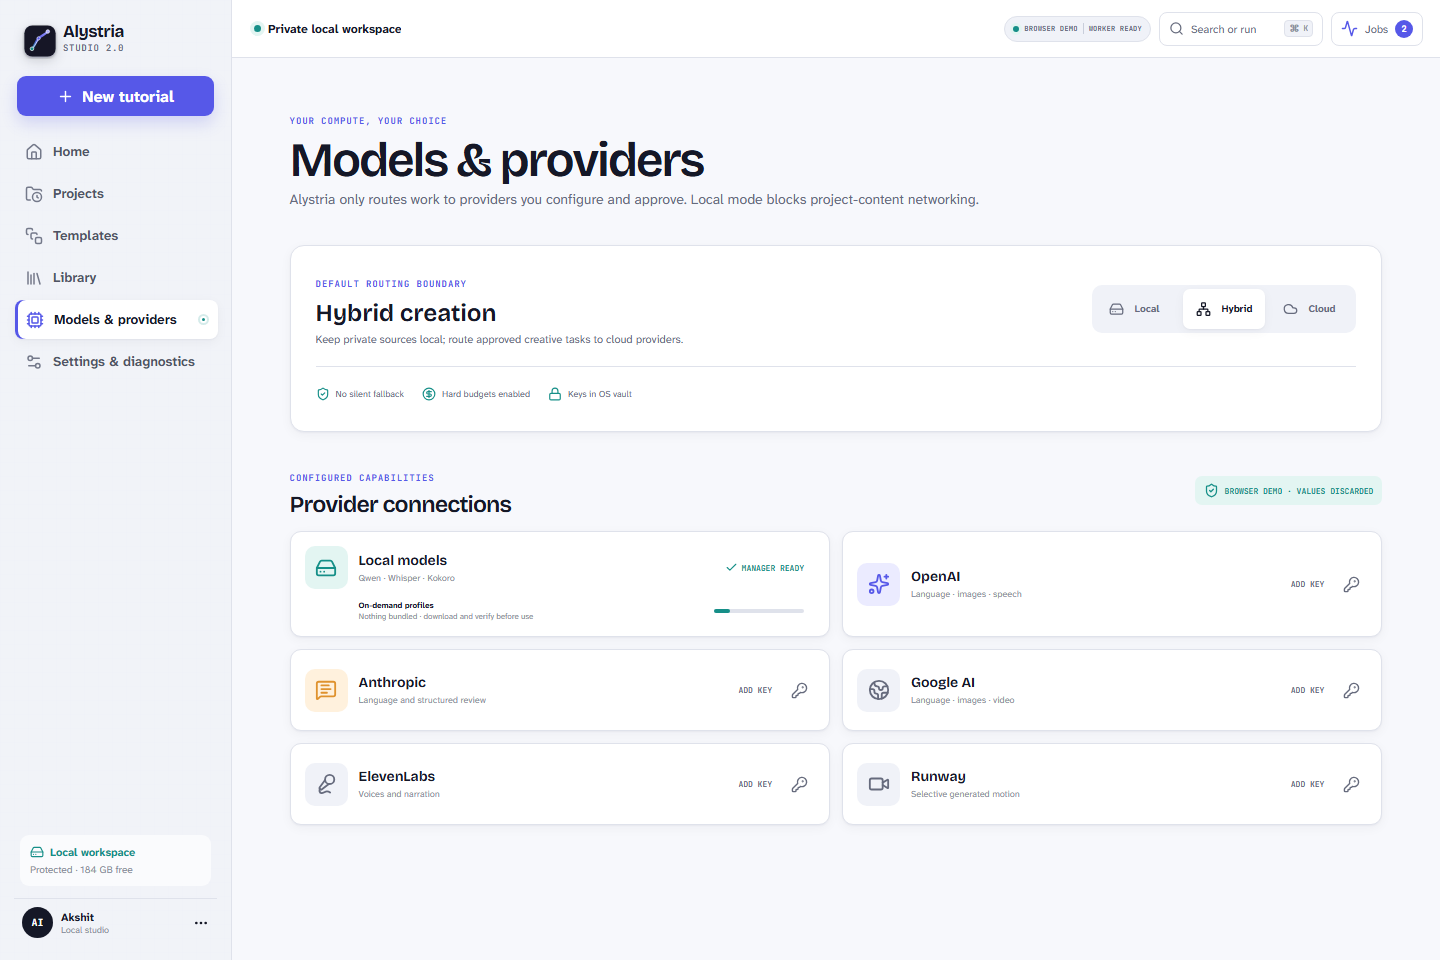
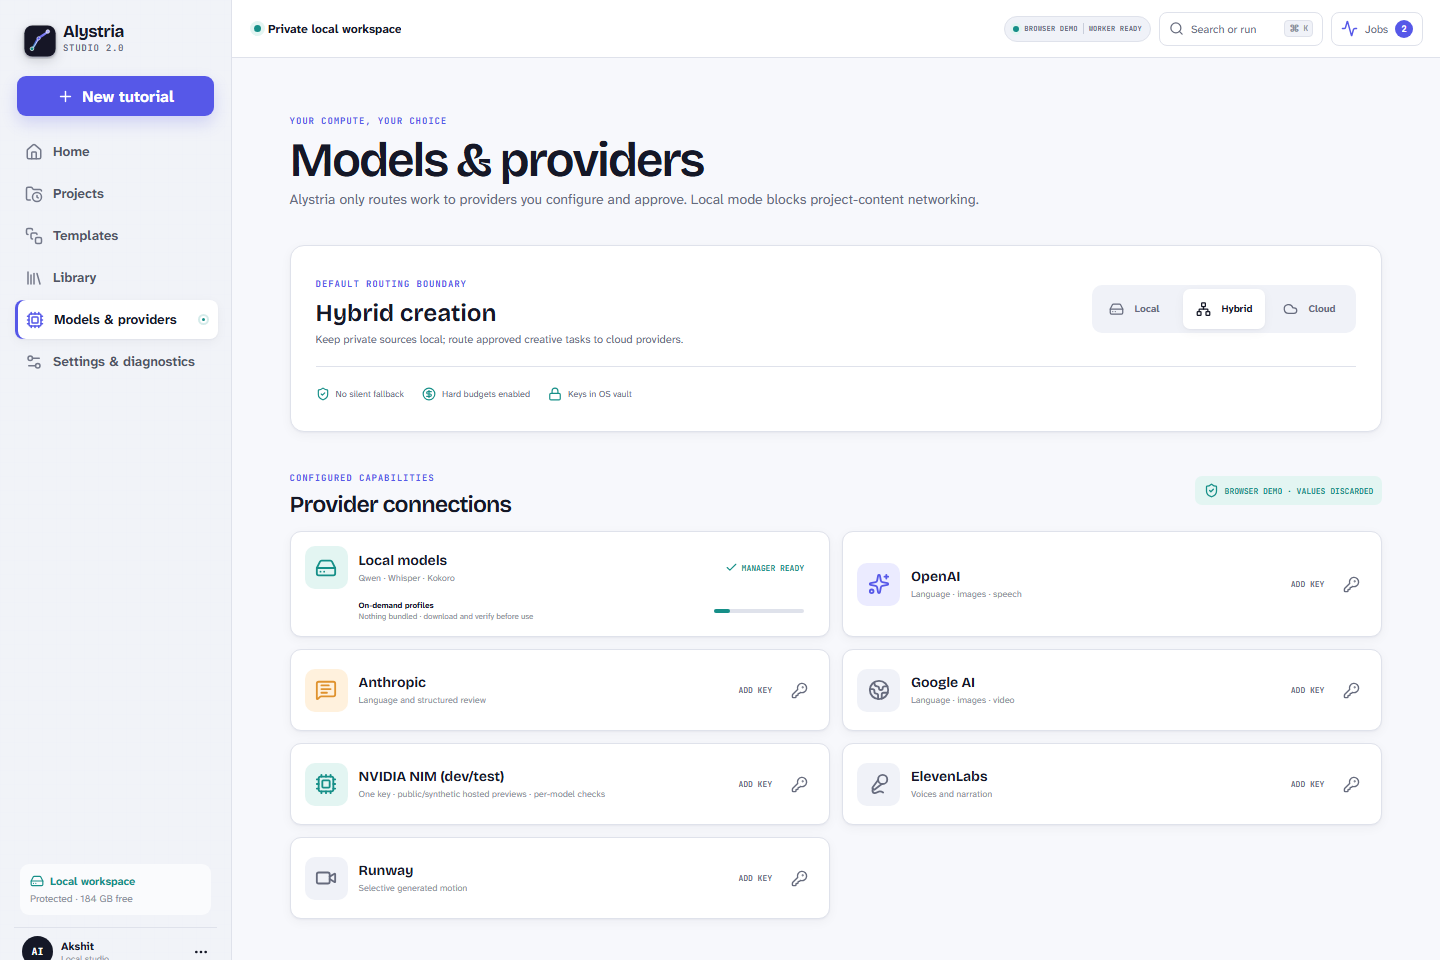
chore(checkpoint): finalize NVIDIA NIM verification

diff --git a/services/pipeline/tests/unit/test_providers.py b/services/pipeline/tests/unit/test_providers.py
@@ -467,7 +467,13 @@ def test_hard_budget_fails_closed_when_price_is_unbounded() -> None:
 def test_versioned_catalog_covers_every_launch_modality_and_is_conservative() -> None:
     catalog = default_catalog()
     capabilities = set().union(*(entry.capabilities for entry in catalog.entries.values()))
-    assert set(Capability) <= capabilities
+    # Reranking remains an implemented contract, but its only current NIM
+    # route is dormant until NVIDIA confirms a hosted model for this account.
+    # A conservative catalog must not advertise a capability merely because a
+    # request type exists in the provider-neutral contract.
+    dormant = {Capability.RERANKING}
+    assert set(Capability) - dormant <= capabilities
+    assert Capability.RERANKING not in catalog.get("nvidia-nim").capabilities
     assert catalog.get("openai").catalog_version == catalog.version
     assert catalog.get("openai").data_policy.boundary is DataBoundary.CLOUD
     assert catalog.get("openai").data_policy.retention is RetentionMode.CONFIGURABLE

diff --git a/services/pipeline/src/alystria/providers/nvidia_nim.py b/services/pipeline/src/alystria/providers/nvidia_nim.py
@@ -2,9 +2,9 @@
 
 The hosted catalog is a development and testing service, not a production
 entitlement. Alystria therefore uses one keyring credential, fixed NVIDIA
-hosts, exact visual endpoint allowlists, unbounded pricing, and no fallback.
-Model access and current per-model rate limits still have to be confirmed in
-build.nvidia.com when a model is selected.
+hosts, exact visual endpoint allowlists, zero-dollar preview budgeting, and no
+fallback. Model access and current per-model rate limits still have to be
+confirmed in build.nvidia.com when a model is selected.
 """
 
 from __future__ import annotations

diff --git a/IMPLEMENTATION_STATUS.md b/IMPLEMENTATION_STATUS.md
@@ -1,6 +1,7 @@
 # Alystria Studio 2.0 implementation ledger
 
-Status snapshot: **2026-08-28**, branch `feat/alystria-studio-v2`.
+Status snapshot: **2026-08-28**, branch `feat/alystria-studio-v2` (resumed after
+the local checkpoint pause).
 
 This is the durable source of truth for the 2.0 worktree. A checked item means
 the implementation exists and its relevant local verification passed. It does
@@ -96,8 +97,9 @@ or release distribution have been approved or verified.
 ### Providers, local models, narration, presenters, and product breadth
 
 - [x] Implement mocked/contract-tested OpenAI Responses, Anthropic Messages,
-  Gemini Interactions, and OpenAI-compatible local LLM adapters with structured
-  output revalidation, privacy scope, idempotency, and budget guards.
+  Gemini Interactions, NVIDIA NIM hosted chat/VLM/embedding/image preview, and
+  OpenAI-compatible local LLM adapters with structured output revalidation,
+  privacy scope, idempotency, and budget guards.
 - [x] Implement mocked/contract-tested request builders and async lifecycle for
   OpenAI/Gemini/BFL/Recraft images, Openverse/Pexels media, Runway/Gemini motion,
   OpenAI/ElevenLabs/Azure/Google speech, HeyGen/Tavus presenters, and local TTS,
@@ -127,20 +129,22 @@ are correctness evidence, not release benchmarks.
 
 | Area | Result | Scope |
 |---|---:|---|
-| Python pipeline | `251 passed, 1 skipped` | Full pytest suite; the skip is the opt-in real renderer smoke in the default run |
-| Python quality | clean | Ruff plus strict mypy over 105 source files |
-| Contracts | `47 passed` | Schema/runtime contract tests |
+| Python pipeline | `312 passed, 1 skipped` | Full pytest suite after source/grounding/QA/background/runtime/NIM integrations; the skip is the opt-in real-renderer smoke |
+| Python quality | clean | Ruff plus strict mypy over 113 source files |
+| Contracts | `52 passed` | Schema/runtime/provider-catalog/generated-binding contract tests |
 | Scene library | `12 passed` | Scene compiler and renderer tests |
 | Theme library | `22 passed` | Theme, contrast, brand-kit, and specimen tests |
-| Desktop unit/bridge | `12 passed` | React/native bridge tests and production Vite build |
+| Desktop unit/bridge | `16 passed` | React/native bridge/provider-key tests and production Vite build |
 | Renderer | `39 passed, 1 skipped` | Determinism, browser, FFmpeg, captions, range, and executor tests; opt-in real smoke skipped by default |
 | Desktop Playwright | `7 passed, 1 skipped` | Desktop and narrow-window interaction/visual coverage |
-| Tauri/Rust | `14 passed` | Formatting, check, command/sidecar/security tests |
+| Tauri/Rust | `22 passed` | Formatting, check, Clippy, runtime-pack, command/sidecar/security tests |
+| Tauri debug shell | passed | Headless `tauri build --debug --no-bundle`; native executable produced without opening a window |
 | Canonical fixture schemas | `11 validated` | Topic/course and EN/ES/HI fixture records |
 | Pipeline to real renderer | `1 passed` | Separate opt-in short integration smoke |
 | Real media smoke | passed | Short 640x360 Chromium to FFV1 to WebM render, probed and visually inspected |
 | Windows speech smoke | passed | 48 kHz mono, non-silent, zero clipped samples; not a voice-quality benchmark |
-| Packaged Python sidecar | passed | Development PyInstaller executable handshake, authenticated RPC, shutdown, and exit 0 |
[1 lines of base64/hex data omitted]
+| NVIDIA NIM live smoke | passed | Redacted key: model discovery 83 IDs, GPT-OSS-20B chat 200, Nemotron-3 Embed 1B 200/2,048 dims, FLUX.2 Klein 200/1024 JPEG; no project content sent |
 
 The correctness runs above were performed on the current development machine,
 whose Windows Node `20.20.2` and Python `3.12.2` do not match the release pins
@@ -156,9 +160,9 @@ than measured release numbers.
 
 ## Implemented surfaces that still need release-grade proof
 
-- [ ] Generate drift-checked Rust and Python bindings directly from the canonical
-  JSON Schemas; the current exhaustive TypeScript bindings and cross-language
-  domain models are implemented, but this generation/drift gate is not complete.
+- [x] Generate drift-checked Rust, Python, and TypeScript schema registries from
+  the canonical JSON Schemas. Rich domain models remain hand-authored over the
+  generated registry, with CI freshness checks.
 - [ ] Complete the DBOS 2.x packaged-Windows crash/recovery/upgrade/no-duplicate-
   charge spike. Until it passes, the deliberately selected and tested
   `SQLiteWorkflowRuntime` fallback remains active; DBOS is not claimed active.
@@ -167,10 +171,12 @@ than measured release numbers.
   rollback, and benchmark them on the target 12 GB RTX 4080 Laptop GPU.
 - [ ] Run live BYOK smoke/contract tests for every launch provider and reconcile
   real retention, region, capability, pricing, cancellation, and billable-request
-  behavior. Current provider evidence is mocked/contract-level only.
-- [ ] Complete functional advanced editing for every visible control. In
-  particular, full undo/redo, timeline authoring, candidate comparison, and all
-  responsive override controls are not yet release-proven end to end.
+  behavior. Current evidence includes an opt-in NVIDIA NIM smoke, while the
+  remaining launch-provider evidence is mocked/contract-level only.
+- [ ] Complete functional advanced editing for every visible control. Durable
+  undo/redo, scoped regeneration, render, repair, and export jobs are wired and
+  tested; timeline authoring, candidate comparison, and all responsive override
+  controls are not yet release-proven end to end.
 - [ ] Render and inspect the complete 16:9, 9:16, 1:1, custom, 1080p, 1440p, 4K,
   FPS/bitrate/codec matrix with the signed runtime. The current real render is a
   short 640x360 development smoke, not the final matrix.
@@ -190,11 +196,12 @@ than measured release numbers.
 
 ## External and release blockers
 
-1. **Rotate the supplied BYOK credentials before any live test.** Values from
-   the user-provided key file were exposed to an internal tool transcript during
-   a failed label-only inspection. The ignored workspace copy was deleted and
-   the original file was not modified, but all credentials from that file must
-   be treated as compromised and replaced. No live provider smoke was run.
+1. **Rotate the previously exposed non-NVIDIA BYOK credentials.** Cohere
+   trial/production, ElevenLabs, and AssemblyAI values from the earlier user
+   key file inspection remain compromised and must not be used. The newly added
+   NVIDIA NIM key was handled in-memory, never printed or committed, and was
+   used only for public/synthetic smoke requests. The original key file was
+   copied, not moved, to the ignored `.alystria/private/` path.
 2. **Production signing material is not available or authorized.** The desktop
    installer, update feed, LGPL FFmpeg/Chromium/Python runtime packs, and optional
    separate GPL x264 pack require immutable manifests, checksums, license review,
@@ -215,7 +222,8 @@ release gates above remain.
 
 - [x] Keep all current work local for user inspection.
 - [x] Do not change the Windows power profile or CPU boost automatically.
-- [x] Do not use the exposed credentials or run billable live-provider tests.
+- [x] Do not use previously exposed credentials or run unapproved/billable
+  live-provider tests.
 - [x] Do not push, merge, publish, deploy, sign a production feed, create a
   public release, distribute an installer, or announce Alystria Studio 2.0
   without explicit owner approval.

diff --git a/PAUSE_HANDOFF.md b/PAUSE_HANDOFF.md
@@ -1,8 +1,8 @@
 # Alystria Studio 2.0 pause handoff
 
-Paused at the owner's request on **2026-08-28**. Do not resume implementation,
-testing, packaging, benchmarking, provider calls, or documentation work until
-the owner explicitly says to continue.
+Paused at the owner's request on **2026-08-28** and resumed after the owner
+said “go.” This file remains the exact handoff record; the remaining release
+gates below are still not approval to publish or release.
 
 ## Repository state
 
@@ -12,9 +12,9 @@ the owner explicitly says to continue.
   occurred.
 - The nested repository was flattened safely and the v1 source remains under
   `legacy/v1` with an explicit do-not-run security warning.
-- The user-approved local checkpoint commit containing the current overhaul and
-  this handoff should be treated as a **WIP pause checkpoint**, not a release
-  candidate or a green final gate.
+- The user-approved local checkpoint commit containing the overhaul and this
+  handoff is `d58f519`; it is a **WIP checkpoint**, not a release candidate or
+  a green final gate.
 
 ## Implemented before pause
 
@@ -68,46 +68,44 @@ Green immediately before the NVIDIA addition:
   renderer 39 passed/1 skipped; builds passed.
 - Rust: format/check/Clippy clean and 22 tests passed.
 - Playwright: 7 passed, 1 intentional skip.
-- Packaged Windows sidecar authenticated smoke passed; the pre-NVIDIA build
[1 lines of base64/hex data omitted]
+- Packaged Windows sidecar authenticated smoke passed after the NVIDIA changes;
+  final development build SHA-256 is
[1 lines of base64/hex data omitted]
 
 After NVIDIA NIM landed:
 
 - Ruff is clean and strict mypy is clean across 113 Python source files.
 - NVIDIA focused tests: 11 passed; provider-focused suite: 58 passed.
 - Contracts: 52 passed. Desktop unit/native tests: 16 passed. Typecheck passed.
-- The latest full Python run ended with **311 passed, 1 skipped, 1 failed**.
-  The sole failure is
-  `test_versioned_catalog_covers_every_launch_modality_and_is_conservative`:
-  `Capability.RERANKING` is intentionally dormant after the hosted rerank model
-  was removed from the active NIM descriptor, but the old test still requires
-  every capability to be active somewhere.
+- The latest full Python run after the dormant-reranking assertion fix completed
+  with **312 passed, 1 skipped**. The skip is the opt-in real renderer smoke.
 
-## Resume TODO in order
+## Resume work completed
 
-1. Decide the dormant-reranking contract: update the conservative catalog test
-   to distinguish implemented-but-dormant capabilities, or add an honest active
-   adapter only if a currently hosted rerank endpoint is verified. Do not
-   advertise a downloadable-only model as hosted/free.
-2. Run the full Python gate again; expected target is 312 passed, 1 optional
-   real-render skip after resolving the one catalog assertion.
-3. Rerun catalog validation, contracts, desktop unit tests, typecheck/lint and
-   production build after the NIM changes.
-4. Run Playwright on the new isolated preview port `4178` (development port is
+- [x] Rerun catalog validation, contracts, desktop unit tests, typecheck/lint and
+  production build after the NIM changes.
+- [x] Run Playwright on the isolated preview port `4178` (development port is
    `1438`) and visually inspect the NVIDIA provider card. Do not touch another
    project's ports or processes.
-5. Rebuild and authenticate-smoke the packaged Windows sidecar again because
+- [x] Rebuild and authenticate-smoke the packaged Windows sidecar again because
    the final NIM provider code landed after the last sidecar build.
-6. Run Tauri `build --debug --no-bundle` headlessly. The production installer,
+- [x] Run Tauri `build --debug --no-bundle` headlessly. The production installer,
    updater and signed runtime packs remain blocked on real signing/release
    inputs.
-7. Finish the interrupted `IMPLEMENTATION_STATUS.md` refresh with the final
+- [x] Finish the `IMPLEMENTATION_STATUS.md` refresh with the final
    verified counts and NIM evidence; validate all Markdown links.
-8. Rerun strict SBOM/notices, generated-binding drift, fixture/hash validation,
+- [x] Rerun strict SBOM/notices, generated-binding drift, fixture/hash validation,
    secret scan, `git diff --check`, and post-commit clean-machine checks.
-9. Replace this WIP checkpoint with atomic green commits if desired, then stop
-   for owner inspection. Never push, merge, publish, deploy or release without
-   explicit approval.
+
+## Remaining TODO before any release consideration
+
+1. Replace the WIP checkpoint with smaller green atomic commits if desired, then
+   stop for owner inspection. Never push, merge, publish, deploy or release
+   without explicit approval.
+2. Complete the external release gates listed below: signed packs/installer and
+   updater, exact pinned toolchains, DBOS spike, model pins/benchmarks, long
+   canonical renders, full locale/media matrix, clean-machine install, and blind
+   v1/v2 scoring.
 
 ## External release gates still open
 

diff --git a/docs/providers/free-and-trial.md b/docs/providers/free-and-trial.md
@@ -43,7 +43,8 @@ cloud service.
    credential vault; do not paste the value into a project or `.env` file.
 4. Mark only public or synthetic payloads for this hosted-preview route, accept
    the current Trial Terms, approve the provider-managed region/retention and
-   unknown-price budget gate, and record when model access was checked.
+   zero-dollar preview budget, and record when model access was checked. Quotas
+   and rate limits are separate from financial cost and can still stop a job.
 5. Start with a small text or embedding fixture. Image/VLM endpoints
    remain exact-model capability gates; a missing, retired, paid, or changed
    endpoint stops with an error and never silently switches provider.

diff --git a/docs/providers/provider-and-model-policy.md b/docs/providers/provider-and-model-policy.md
@@ -42,7 +42,8 @@ prohibit production and confidential, sensitive, or personal inputs; make
 credits/limits variable; and permit certain de-identified content and logging
 uses for product/AI improvement, security, and fraud handling. The UI must show
 that conflict instead of collapsing it to a “no training” badge. Explicit terms,
-region/retention, model-access, and unknown-price approvals are required.
+region/retention, model-access, and zero-dollar preview budget approvals are
+required; rate limits remain a separate availability gate.
 
 Downloaded/self-hosted NIM microservices require their own NVIDIA AI Enterprise
 entitlement, infrastructure, model license, and privacy assessment. They are a
